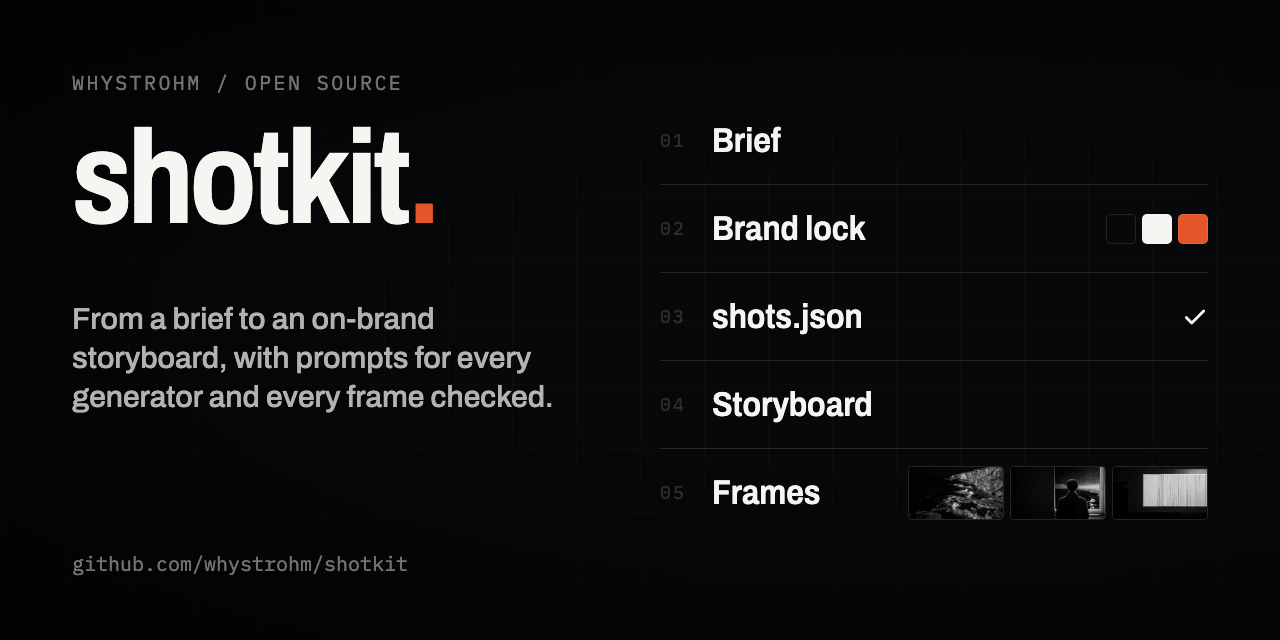
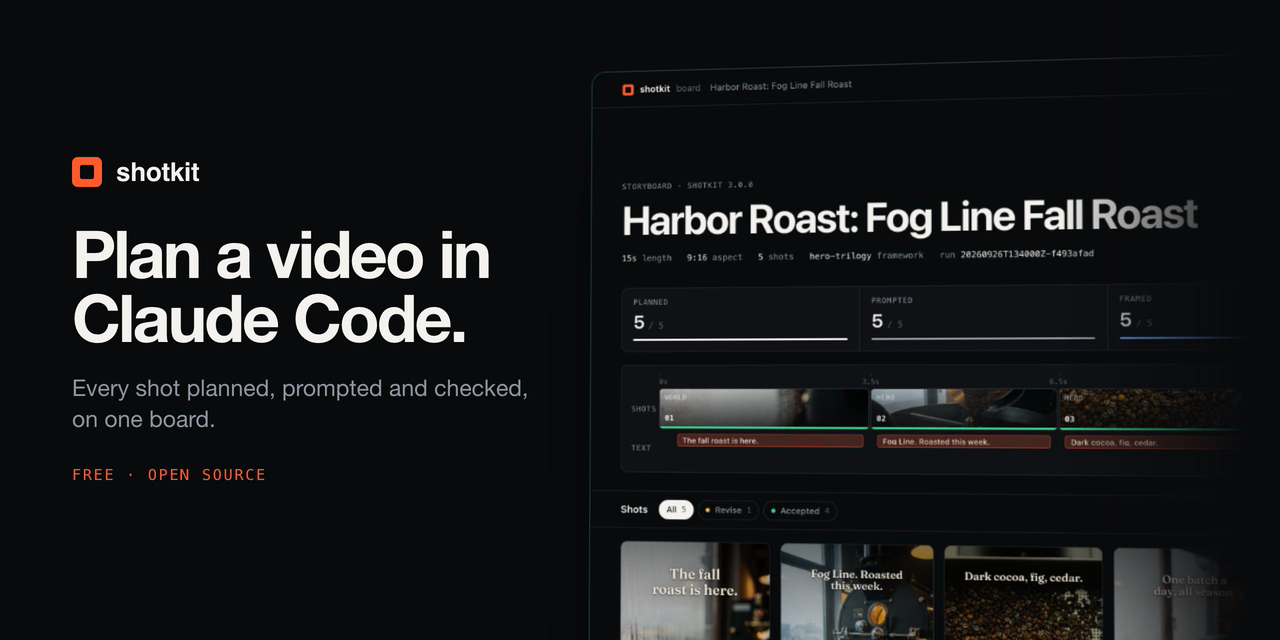
Repo: community files, a README that opens on the demo, release notes
SECURITY.md, CONTRIBUTING.md, a code of conduct, pull request and issue
templates. The README opens with the title, badges, links and the demo. Notes
for 3.2.0 and 3.3.0. A new social preview image made from the real board.

diff --git a/README.md b/README.md
@@ -1,10 +1,29 @@
-# shotkit
+<h1 align="center">Shotkit</h1>
 
-![shotkit](docs/images/social-preview.png)
+<p align="center"><strong>Plan a video in Claude Code.</strong><br>
+One line of brief becomes a board with every shot planned, prompted and checked.</p>
 
-**From a brief to an on-brand storyboard, with prompts for every generator and every frame checked.**
+<p align="center">
+  <a href="https://github.com/whystrohm/shotkit/actions/workflows/validate-skills.yml"><img alt="Checks" src="https://github.com/whystrohm/shotkit/actions/workflows/validate-skills.yml/badge.svg"></a>
+  <a href="https://github.com/whystrohm/shotkit/releases/latest"><img alt="Latest release" src="https://img.shields.io/github/v/release/whystrohm/shotkit?label=release&color=FF5A2B"></a>
+  <a href="LICENSE"><img alt="Apache 2.0" src="https://img.shields.io/badge/licence-Apache%202.0-informational"></a>
+  <a href="https://github.com/whystrohm/shotkit/stargazers"><img alt="Stars" src="https://img.shields.io/github/stars/whystrohm/shotkit?style=flat&color=informational"></a>
+</p>
 
-Five Claude Skills that turn a creative brief into a production-grade storyboard with model-specific image prompts, on-screen text specs, an HTML preview, and a versioned audit trail, plus a brand-lock extractor that onboards a brand from its existing assets. Built by [WhyStrohm](https://whystrohm.com). Apache 2.0.
+<p align="center">
+  <a href="#install">Install</a> ·
+  <a href="#the-board">The board</a> ·
+  <a href="docs/generate-with-fal.md">Frames and clips</a> ·
+  <a href="https://whystrohm.com/shotkit/docs/quickstart">Quickstart</a> ·
+  <a href="https://whystrohm.com/shotkit/examples/harbor-roast/board.html">A live board</a>
+</p>
+
+![Shotkit demo: a brief is typed, the board opens with the plan, then prompts, frames and the critic's verdicts land, one shot is revised and passes](docs/images/demo.gif)
+
+Six Claude skills and a set of small tools, built by [WhyStrohm](https://whystrohm.com).
+Free and open source under Apache 2.0. Nothing ships with a key.
+
+## Install
 
 ```bash
 git clone https://github.com/whystrohm/shotkit.git
@@ -50,8 +69,6 @@ See a finished run before you make one:
 ```bash
 ~/.claude/shotkit-tools/sk board --example
 ```
-
-![Shotkit demo: a brief is typed, the board opens with the plan, then prompts, frames and the critic's verdicts land, one shot is revised and passes](docs/images/demo.gif)
 
 The loop is the live board replaying one real Shotkit run in stages: the brief, the plan,
 the prompts, the frames, the critic's verdicts, then a second round for the shots that came

diff --git a/CONTRIBUTING.md b/CONTRIBUTING.md
@@ -1,0 +1,43 @@
+# Contributing
+
+Thanks for looking. Small, focused pull requests are the easiest to review.
+
+## What is welcome
+
+- **A new generator adapter** in `skills/visual-prompt-forge/adapters/`, with its entry
+  in `_capabilities.json`.
+- **A new beat framework** in `skills/storyboard-architect/references/beat-frameworks.md`.
+- **A brand pack example** in `brand-packs/examples/`.
+- **A fix**, with a test that fails without it.
+
+Open an issue first for anything that changes a file format (`shots.json`,
+`text-overlays.json`, `run.json`, `critique.json`). Other tools read those files.
+
+## Run the checks
+
+```bash
+tools/sk check
+```
+
+That is the same entry point CI runs, so green locally means green on the pull request.
+It needs Python 3 and nothing else; `sk` sets up what the validators use.
+
+## Rules the checks enforce
+
+- **Every check proves itself.** A new validator ships a `--selftest` that builds a
+  failing case and shows the check catches it.
+- **Bundled previews are reproducible.** If you change the preview renderer or its
+  templates, re-render the three bundled `preview.html` files with their pinned
+  timestamps (the commands are in `.github/workflows/validate-skills.yml`).
+- **No keys in the repo.** `tools/validate_no_secrets.py` fails the build on one.
+- **The tools that ship to users need no install.** `board.py`, `generate.py`,
+  `shots-to-html.py` and `copy-prompt.py` use the Python standard library only.
+
+## Writing
+
+Plain words and short sentences. Say what the thing does. No hype. Docs and skill files
+are read by people and by models, and both do better with literal text.
+
+## Licence
+
+By contributing you agree that your work is released under the repo's Apache 2.0 licence.

diff --git a/SECURITY.md b/SECURITY.md
@@ -1,0 +1,32 @@
+# Security
+
+## Reporting a problem
+
+Write to [hello@whystrohm.com](mailto:hello@whystrohm.com) with "Shotkit security" in the
+subject. Please do not open a public issue for a security problem. Say what you found,
+how to reproduce it and which version you ran (`sk doctor` prints it). You will get a
+reply within three working days.
+
+The latest release is the supported version.
+
+## What Shotkit touches
+
+- **Your files.** Shotkit reads and writes inside the output folder you point it at, and
+  installs into `~/.claude/` or `./.claude/`.
+- **The network.** Nothing by default except Google Fonts links on the preview and the
+  board, which `--no-web-fonts` turns off. `sk generate` talks to fal.ai, and only when
+  you run it with `--yes`.
+- **The live board.** `sk board --serve` listens on `127.0.0.1` only. It refuses writes
+  from any other site, saves only image files, only into `frames/`, and does not serve
+  hidden files such as `.env`.
+
+## Keys
+
+Shotkit ships with no keys. If you use `sk generate`, your fal.ai key stays in your
+environment or in a `.env` file that git ignores. Shotkit sends it to fal and nowhere
+else, and never prints or stores it.
+
+- Never commit a key. `tools/validate_no_secrets.py` runs in CI and fails the build if
+  one is found.
+- If a key was ever committed or pasted somewhere public, delete it at
+  fal.ai/dashboard/keys and make a new one. Removing it from the file is not enough.

diff --git a/docs/releases/v3.3.0.md b/docs/releases/v3.3.0.md
@@ -1,0 +1,15 @@
+# Shotkit 3.3.0: Frames and clips with your own fal.ai key
+
+Shotkit can now make the frames and the clips.
+
+- **`sk generate output/ --model flux`** shows the plan and spends nothing. Add `--yes` to send it. Stills go to `frames/round-N/`, clips to `clips/round-N/`, and clips play on the board.
+- **Pick any model.** A generator name, or any fal model id. `--list` searches fal's models. It reads each model's published inputs, so new models work without a change.
+- **Safe by default.** Nothing is sent without `--yes`, a reviewed frame is never replaced, and every request id is logged on submit.
+- **Bring your own key.** Nothing ships with a key. A secrets check now runs in CI and fails the build if one is ever committed.
+- **A new demo** in the README: the live board replaying a real run.
+
+Fixed: type over a frame always fits and reads; copying no longer scrolls a phone; a live board keeps its place when it reloads.
+
+Guide: [`docs/generate-with-fal.md`](../generate-with-fal.md).
+
+Full list: [CHANGELOG.md](../../CHANGELOG.md).

diff --git a/docs/releases/v3.2.0.md b/docs/releases/v3.2.0.md
@@ -1,0 +1,13 @@
+# Shotkit 3.2.0: The board, one command, and no setup
+
+A first run now ends with a page open in the browser.
+
+- **The board.** `sk board output/ --open` renders one page for the whole run: a contact sheet and a timeline of every shot, the critic's verdicts with their fixes, every prompt with a copy button, and each file checked against `run.json`. `--serve` runs it live and saves a frame dropped on a shot.
+- **Copy for LLM.** The whole storyboard, one shot or the brand lock as Markdown.
+- **`/shotkit`.** One command that plans the shots, writes the prompts and opens the board.
+- **No setup.** The installer gives the validators a private Python environment. The `pip install` step is gone.
+- **A starter brand** for briefs that name none, and a bundled finished run to look at.
+
+Fixed: the installer's `pip` and `python` instructions failed on a stock Mac, and a brief with no brand was sent to a blank template the checks reject.
+
+Full list: [CHANGELOG.md](../../CHANGELOG.md).

diff --git a/CODE_OF_CONDUCT.md b/CODE_OF_CONDUCT.md
@@ -1,0 +1,12 @@
+# Code of conduct
+
+Be useful and be decent.
+
+- Talk about the work, not the person.
+- Assume the other person is acting in good faith, and ask before you conclude otherwise.
+- No harassment, no insults, no discrimination. That holds in issues, pull requests and
+  anywhere else this project is discussed.
+
+A maintainer may edit or remove comments, close threads or block an account that breaks
+this. To report a problem, write to [hello@whystrohm.com](mailto:hello@whystrohm.com).
+Reports are read by the maintainer and kept private.

diff --git a/.github/PULL_REQUEST_TEMPLATE.md b/.github/PULL_REQUEST_TEMPLATE.md
@@ -1,0 +1,13 @@
+## What this changes
+
+<!-- One or two sentences. -->
+
+## Why
+
+<!-- The problem it fixes, or the issue number. -->
+
+## Checked
+
+- [ ] `tools/sk check` passes
+- [ ] A test fails without this change, or the change is docs only
+- [ ] No file format changed, or an issue was opened first

diff --git a/.github/ISSUE_TEMPLATE/feature.md b/.github/ISSUE_TEMPLATE/feature.md
@@ -1,0 +1,13 @@
+---
+name: Idea or request
+about: Something Shotkit should do, or do better
+labels: enhancement
+---
+
+**What you were trying to do**
+
+**What happened, or what is missing**
+
+**What you expected**
+
+**Version** (`sk doctor` prints it)

diff --git a/.github/ISSUE_TEMPLATE/bug.md b/.github/ISSUE_TEMPLATE/bug.md
@@ -10,6 +10,9 @@ labels: bug
 - [ ] visual-prompt-forge
 - [ ] visual-asset-critic
 - [ ] storyboard-html-preview
+- [ ] shotkit (the one command)
+- [ ] the board
+- [ ] sk generate (fal.ai)
 - [ ] install.sh / docs / other
 
 **Environment**
